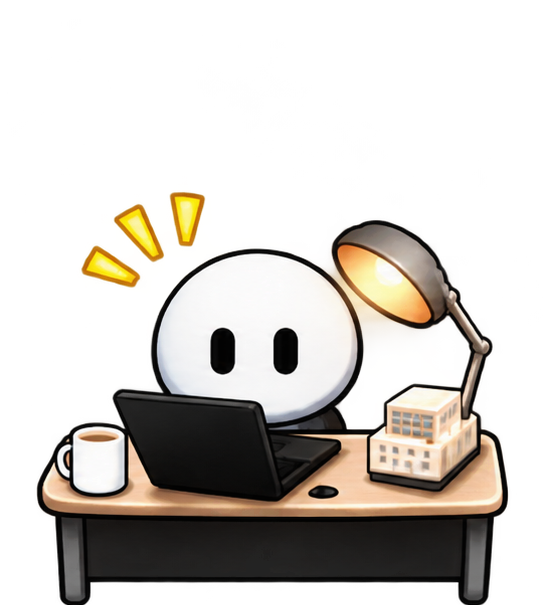
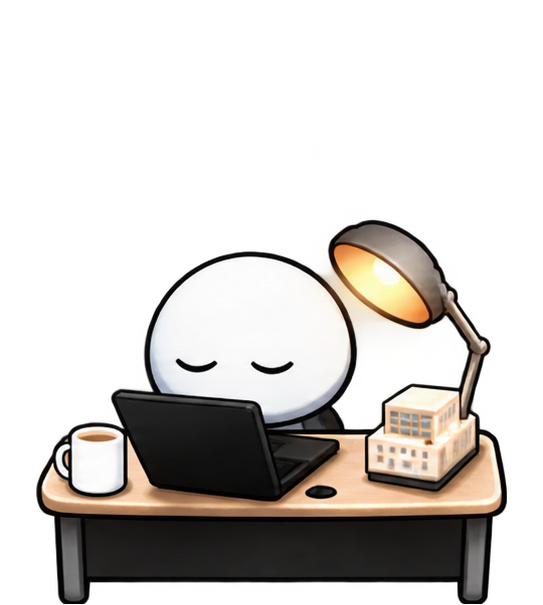
Make idle click-only and smooth accessory recovery

diff --git a/DyberPet/Accessory.py b/DyberPet/Accessory.py
@@ -364,6 +364,7 @@ class QAccessory(QWidget):
         self.delay_respond = ACCESSORY_FOLLOW_DELAY_MS
         self.delay_timer = ACCESSORY_FOLLOW_DELAY_MS
         self.main_falling = False
+        self.recovering_from_fall = False
         self.speed_follow_main = acc_act.get('speed_follow_main', 5)
         self.at_destination = True
         self.move_right = False
@@ -524,11 +525,31 @@ class QAccessory(QWidget):
         if self.follow_main:
             is_falling = self._main_is_falling()
             if not is_falling:
+                just_landed = self.main_falling
                 self.main_falling = False
                 self.destination = [
                     pos_x + self.current_anchor[0],
                     pos_y + self.current_anchor[1],
                 ]
+                if just_landed:
+                    self.recovering_from_fall = True
+
+                if self.recovering_from_fall:
+                    self.delay_timer = 0
+                    distance_x = self.destination[0] - self.pos().x()
+                    distance_y = self.destination[1] - self.pos().y()
+                    if max(1, self.speed_follow_main * settings.tunable_scale) >= (
+                        (distance_x ** 2 + distance_y ** 2) ** 0.5
+                    ):
+                        self.move(*self.destination)
+                        self.at_destination = True
+                        self.recovering_from_fall = False
+                    else:
+                        self.at_destination = False
+                        self.move_right = distance_x > 0
+                    self._raise_if_above_main()
+                    return
+
                 self.at_destination = True
                 self.move_right = False
                 self.delay_timer = 0
@@ -678,10 +699,11 @@ class QAccessory(QWidget):
             self.move_right = False
 
         if max(1,self.speed_follow_main*settings.tunable_scale) >= ((movement_x**2 + movement_y**2)**0.5):
-            #plus_x = movement_x
-            #plus_y = movement_y
+            self.move(*self.destination)
             self.move_right = False
             self.at_destination = True
+            if not self._main_is_falling():
+                self.recovering_from_fall = False
             self.delay_timer = self.delay_respond if self._main_is_falling() else 0
             return
 

diff --git a/tests/test_accessory_follow.py b/tests/test_accessory_follow.py
@@ -1,0 +1,79 @@
+import unittest
+from unittest import mock
+
+from DyberPet import settings
+from DyberPet.Accessory import QAccessory
+
+
+class FakePoint:
+    def __init__(self, x, y):
+        self._x = x
+        self._y = y
+
+    def x(self):
+        return self._x
+
+    def y(self):
+        return self._y
+
+
+class FakeAccessory:
+    def __init__(self):
+        self.follow_main = True
+        self.main_falling = False
+        self.recovering_from_fall = False
+        self.current_anchor = [10, 20]
+        self.destination = [110, 120]
+        self.at_destination = False
+        self.move_right = False
+        self.delay_respond = 167
+        self.delay_timer = 0
+        self.speed_follow_main = 5
+        self.position = [60, 70]
+
+    def pos(self):
+        return FakePoint(*self.position)
+
+    def move(self, x, y):
+        self.position = [x, y]
+
+    def _raise_if_above_main(self):
+        pass
+
+    @staticmethod
+    def _main_is_falling():
+        return bool(settings.set_fall) and settings.onfloor == 0 and not settings.draging
+
+
+class AccessoryFollowTests(unittest.TestCase):
+    def test_accessory_catches_up_after_main_lands(self):
+        with mock.patch.multiple(
+            settings,
+            set_fall=1,
+            onfloor=0,
+            draging=0,
+            tunable_scale=1,
+            create=True,
+        ):
+            accessory = FakeAccessory()
+            QAccessory.update_main_pos(accessory, 100, 100)
+
+            settings.onfloor = 1
+            QAccessory.update_main_pos(accessory, 100, 100)
+
+            self.assertEqual(accessory.position, [60, 70])
+            self.assertTrue(accessory.recovering_from_fall)
+            self.assertFalse(accessory.at_destination)
+
+            for _ in range(100):
+                if accessory.at_destination:
+                    break
+                QAccessory.move_to_main(accessory)
+
+            self.assertEqual(accessory.position, [110, 120])
+            self.assertFalse(accessory.recovering_from_fall)
+            self.assertTrue(accessory.at_destination)
+
+
+if __name__ == '__main__':
+    unittest.main()

diff --git a/tests/test_tamatect_click_animation.py b/tests/test_tamatect_click_animation.py
@@ -1,0 +1,28 @@
+import json
+import os
+import unittest
+
+from DyberPet.conf import Act, basedir
+
+
+class TamatectClickAnimationTests(unittest.TestCase):
+    def test_idle_click_frame_is_excluded_from_default_animation(self):
+        role_dir = os.path.join(basedir, 'res', 'role', 'Tamatect')
+        with open(os.path.join(role_dir, 'pet_conf.json'), encoding='UTF-8') as file:
+            pet_conf = json.load(file)
+        with open(os.path.join(role_dir, 'act_conf.json'), encoding='UTF-8') as file:
+            act_conf = json.load(file)
+
+        pic_dict = {
+            image_name: image_name
+            for image_name in ('idle_0', 'idle_1', 'idle_2', 'idle_click_0')
+        }
+        idle = Act.init_act(act_conf['default'], pic_dict, 1, 'Tamatect')
+        idle_click = Act.init_act(act_conf[pet_conf['patpat']], pic_dict, 1, 'Tamatect')
+
+        self.assertEqual(idle.images, ['idle_0', 'idle_1', 'idle_2'])
+        self.assertEqual(idle_click.images, ['idle_click_0'])
+
+
+if __name__ == '__main__':
+    unittest.main()
